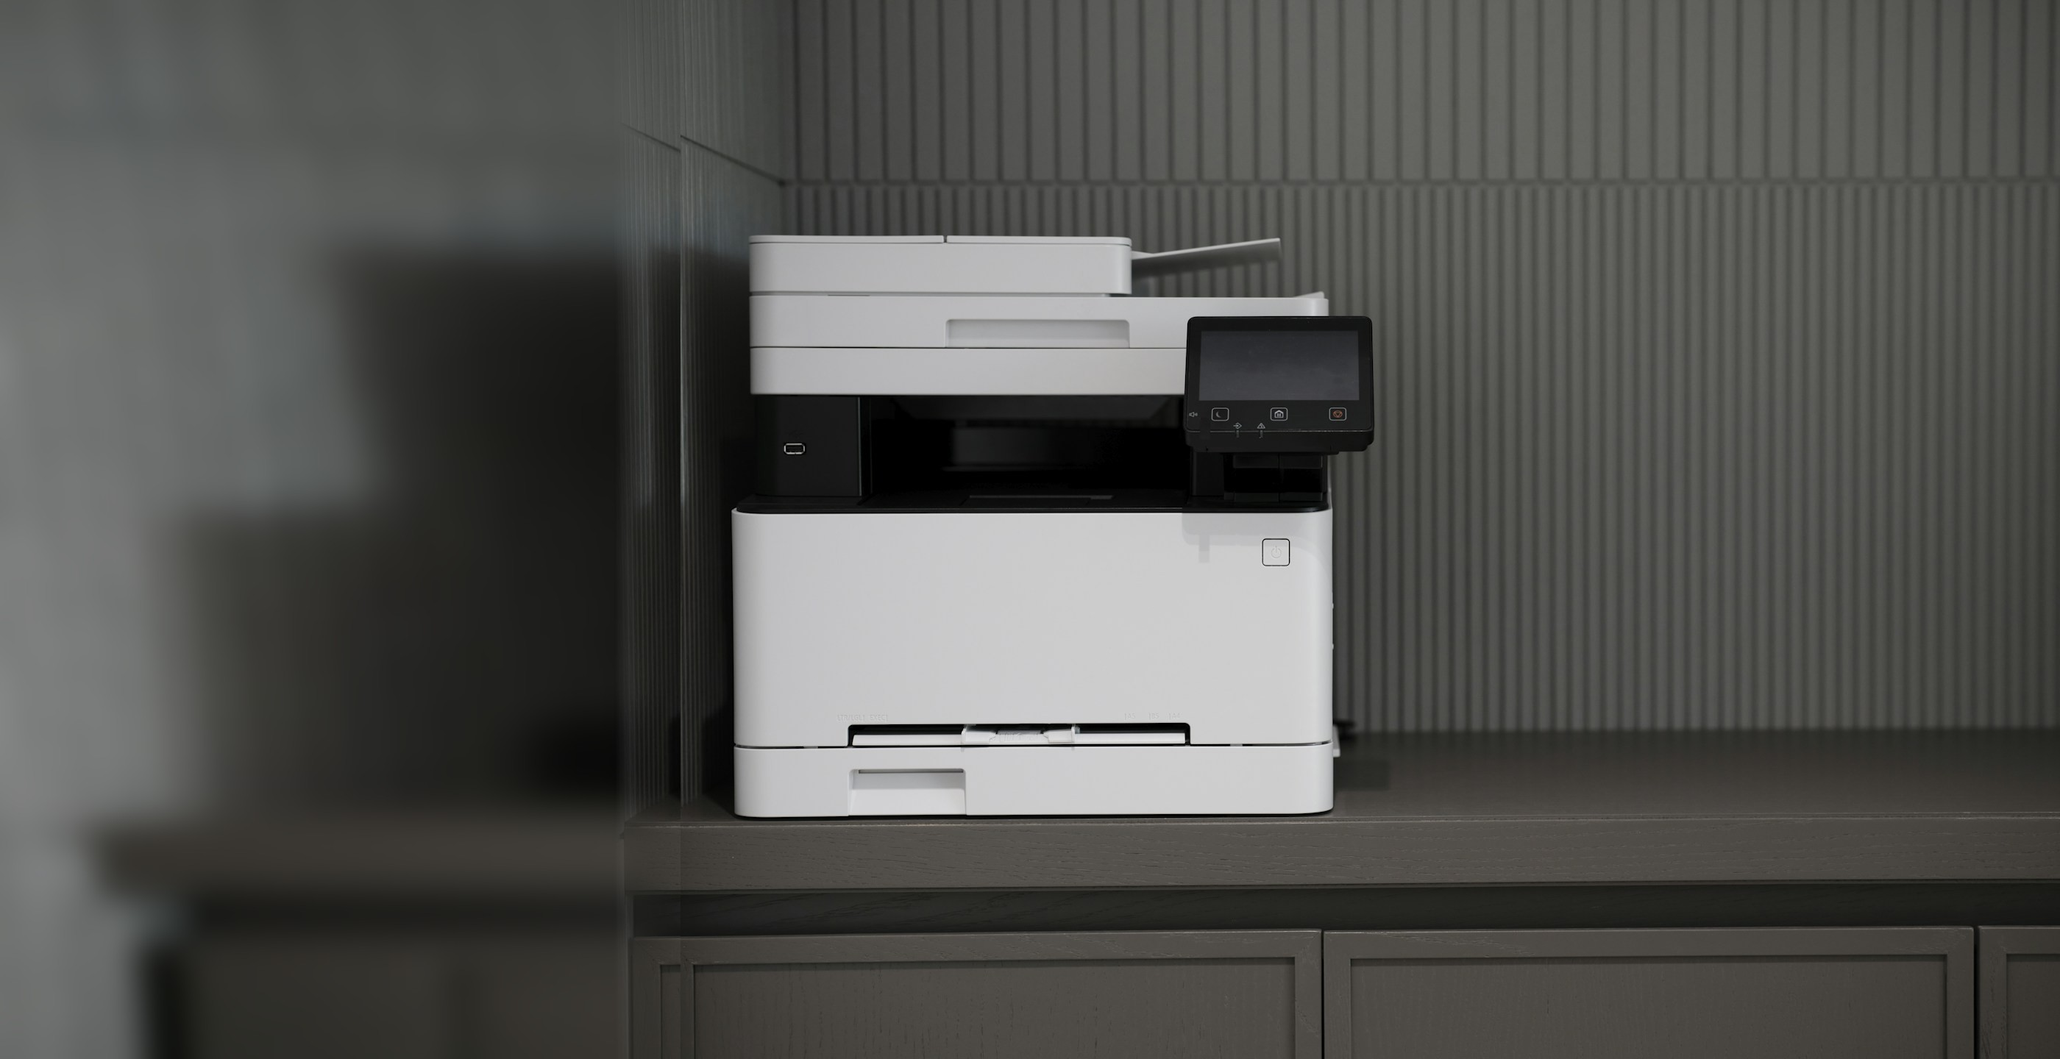
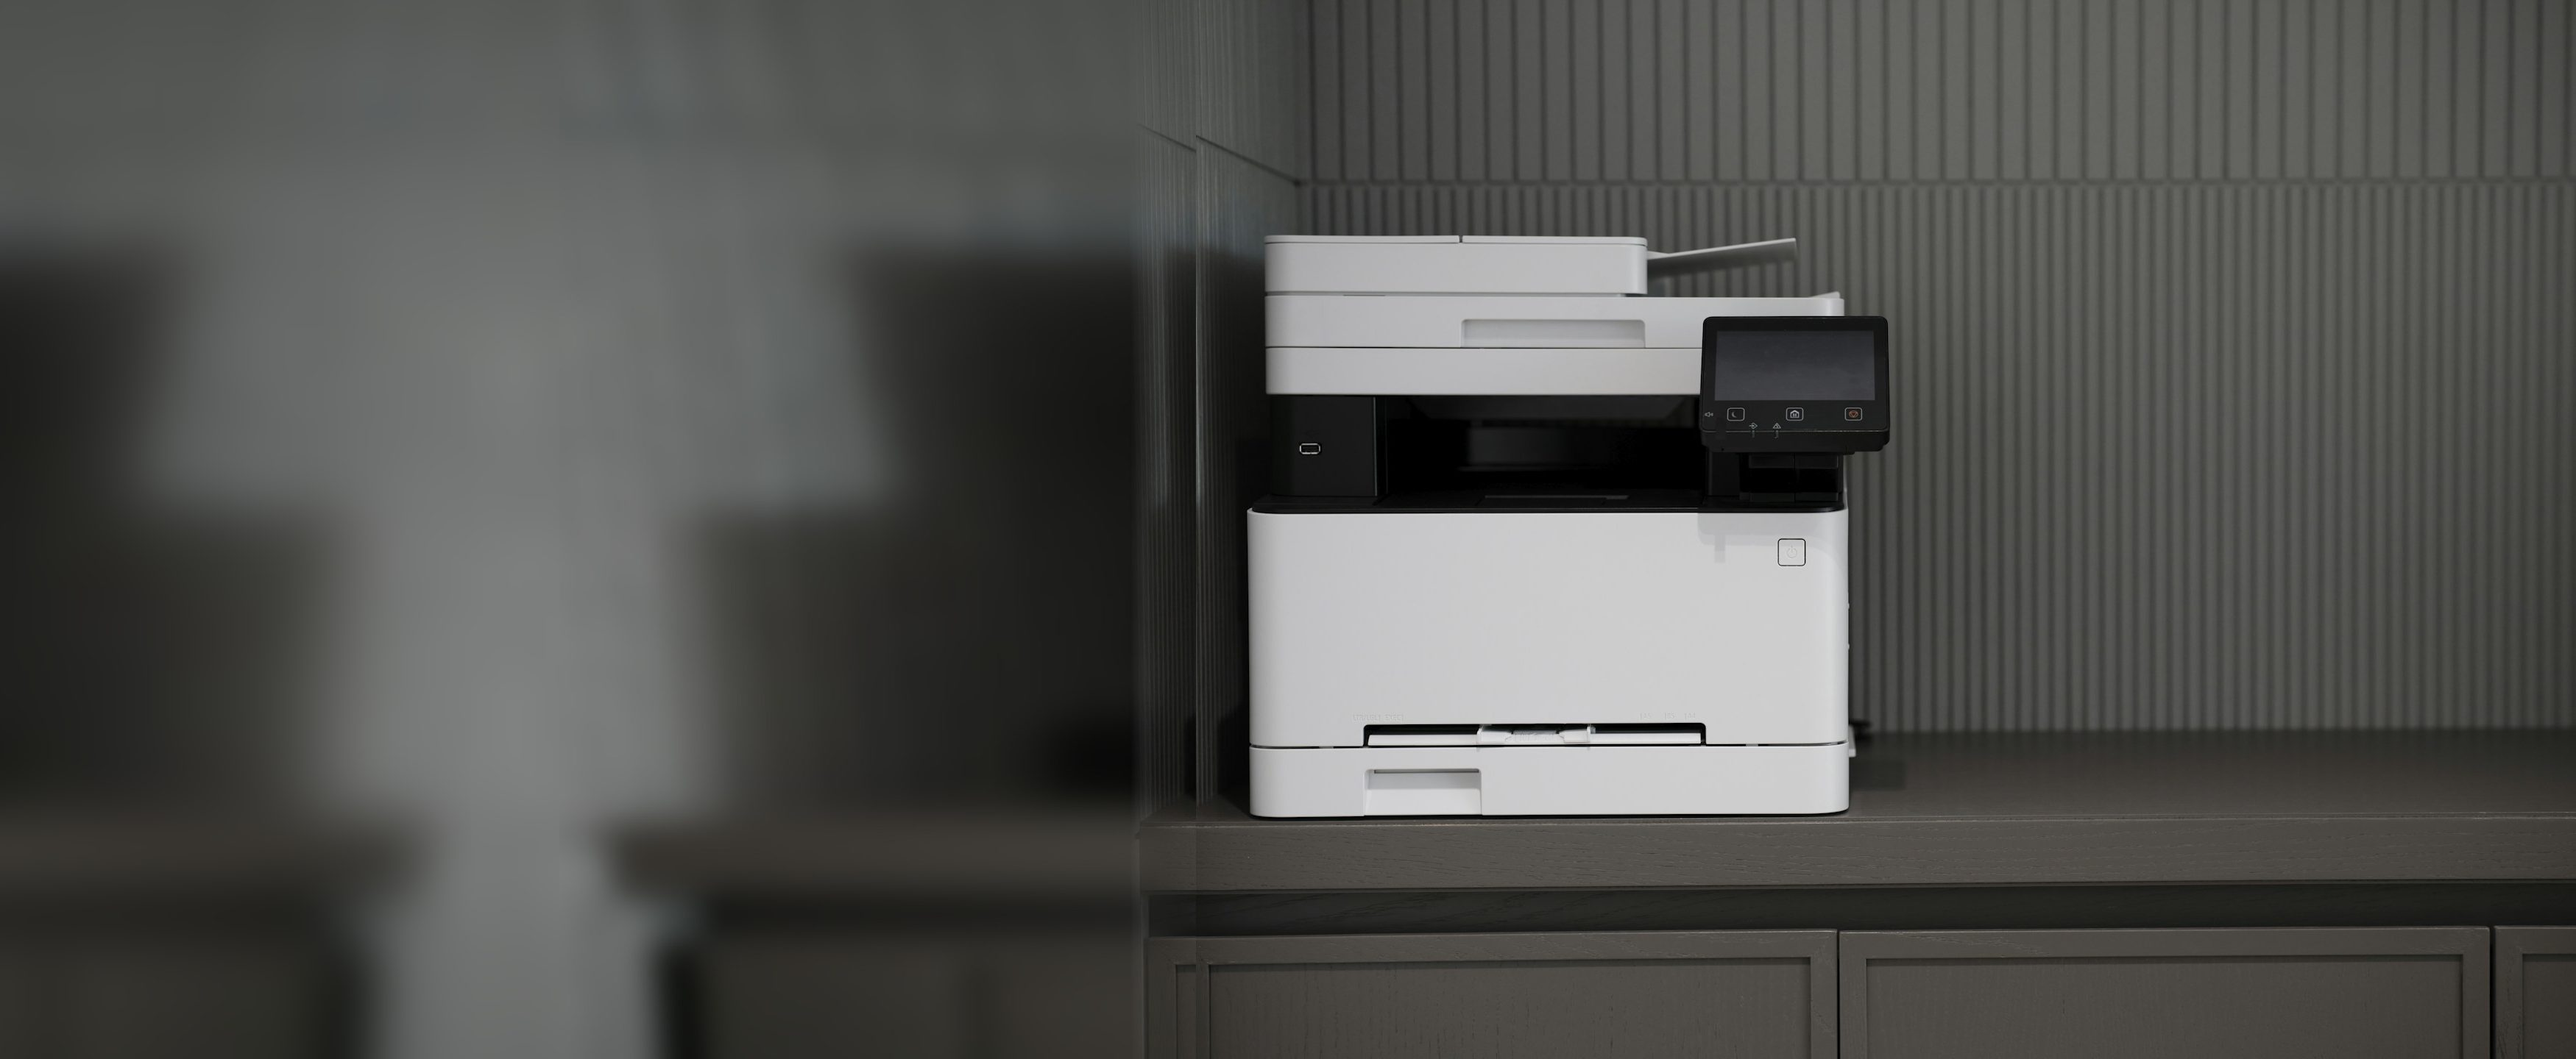
Sincroniza alterações locais

diff --git a/index.html b/index.html
@@ -215,11 +215,7 @@
       content: '';
       position: absolute;
       inset: 0;
-      display: none;
-      background:
-        radial-gradient(ellipse at 15% 55%, rgba(237, 125, 32, 0.2) 0%, transparent 55%),
-        radial-gradient(ellipse at 85% 15%, rgba(255, 255, 255, 0.48) 0%, transparent 50%),
-        linear-gradient(110deg, rgba(21, 12, 30, 0.82) 0%, rgba(21, 12, 30, 0.58) 30%, rgba(21, 12, 30, 0.24) 60%, rgba(21, 12, 30, 0.1) 100%);
+      background: linear-gradient(90deg, rgba(21, 12, 30, 0.72) 0%, rgba(21, 12, 30, 0.5) 32%, rgba(21, 12, 30, 0.08) 52%, transparent 70%);
     }
 
     .hero::after {
@@ -235,13 +231,39 @@
     .hero-content {
       max-width: 1200px;
       margin: 0 auto;
-      padding: 80px 24px;
+      padding: 56px 24px;
       position: relative;
       z-index: 1;
-      display: grid;
-      grid-template-columns: 1fr 1fr;
-      gap: 80px;
-      align-items: center;
+      width: 100%;
+    }
+
+    .hero-text { max-width: 600px; }
+
+    .hero-logo {
+      display: block;
+      width: 150px;
+      height: auto;
+      margin-bottom: 22px;
+    }
+
+    /* Brilho ambiente fixo atrás do texto do hero (substitui o glow que seguia o mouse) */
+    .hero-glow {
+      position: absolute;
+      left: -8%;
+      top: 50%;
+      width: 720px;
+      height: 720px;
+      transform: translateY(-50%);
+      border-radius: 50%;
+      background: radial-gradient(circle, rgba(237, 125, 32, 0.22) 0%, rgba(107, 47, 160, 0.14) 42%, transparent 70%);
+      pointer-events: none;
+      z-index: 0;
+      animation: glowPulse 9s ease-in-out infinite;
+    }
+
+    @keyframes glowPulse {
+      0%, 100% { opacity: 0.75; transform: translateY(-50%) scale(1); }
+      50% { opacity: 1; transform: translateY(-50%) scale(1.08); }
     }
 
     .overline {
@@ -274,7 +296,7 @@
       font-weight: 300;
       color: rgba(255,255,255,0.78);
       line-height: 1.75;
-      margin-bottom: 40px;
+      margin-bottom: 32px;
       max-width: 480px;
       text-shadow: 0 2px 16px rgba(0,0,0,0.3);
     }
@@ -328,30 +350,11 @@
       background: rgba(237, 125, 32, 0.12);
     }
 
-    .hero-visual {
-      display: flex;
-      justify-content: center;
-      align-items: center;
-    }
-
-    .hero-logo-wrap img {
-      width: 300px;
-      height: auto;
-      max-width: 100%;
-      filter: drop-shadow(0 0 70px rgba(237, 125, 32, 0.45));
-      animation: floatLogo 7s ease-in-out infinite;
-    }
-
-    @keyframes floatLogo {
-      0%, 100% { transform: translateY(0px); }
-      50% { transform: translateY(-16px); }
-    }
-
     .hero-stats {
       display: flex;
       gap: 40px;
-      margin-top: 48px;
-      padding-top: 40px;
+      margin-top: 36px;
+      padding-top: 30px;
       border-top: 1px solid rgba(237, 125, 32, 0.22);
     }
 
@@ -595,12 +598,17 @@
       border-top: 1px solid rgba(0,0,0,0.08);
     }
 
+    .values-row { text-align: center; }
     .values-header { margin-bottom: 28px; }
 
     .values-pills {
       display: flex;
       flex-wrap: wrap;
+      justify-content: center;
       gap: 12px;
+      max-width: 900px;
+      margin-left: auto;
+      margin-right: auto;
     }
 
     .value-pill {
@@ -624,10 +632,11 @@
     }
 
     .vision-quote {
-      margin-top: 40px;
+      margin: 40px auto 0;
+      max-width: 820px;
       padding: 28px 32px;
       background: linear-gradient(120deg, rgba(107, 47, 160, 0.06), rgba(237, 125, 32, 0.06));
-      border-left: 3px solid var(--purple);
+      border-top: 3px solid var(--purple);
       border-radius: 8px;
     }
 
@@ -675,7 +684,9 @@
 
     .services-header {
       margin-bottom: 56px;
+      text-align: center;
     }
+    .services-header .section-desc { margin: 0 auto; }
 
     .services-pillars {
       display: grid;
@@ -1007,10 +1018,12 @@
 
     .contact-grid {
       display: grid;
-      grid-template-columns: 1fr 1fr;
+      grid-template-columns: minmax(0, 1fr) minmax(0, 1fr);
       gap: 60px;
-      margin-top: 56px;
+      align-items: stretch;
     }
+
+    .contact-head .btn-primary { margin-top: 8px; }
 
     .contact-info {
       display: flex;
@@ -1094,7 +1107,7 @@
       border-radius: 16px;
       overflow: hidden;
       border: 1px solid rgba(237, 125, 32, 0.24);
-      height: 380px;
+      min-height: 460px;
     }
 
     .map-box iframe {
@@ -1238,8 +1251,9 @@
           radial-gradient(ellipse at 50% 20%, rgba(237, 125, 32, 0.18) 0%, transparent 55%),
           linear-gradient(rgba(21, 12, 30, 0.64), rgba(21, 12, 30, 0.64));
       }
-      .hero-visual { order: -1; }
-      .hero-logo-wrap img { width: 220px; }
+      .hero-logo { width: 170px; margin-left: auto; margin-right: auto; }
+      .hero-text { margin: 0 auto; }
+      .hero-glow { left: calc(50% - 360px); }
       .hero-text h2 { margin: 0 auto 32px; }
       .hero-buttons { justify-content: center; }
       .hero-stats { justify-content: center; flex-wrap: wrap; }
@@ -1266,8 +1280,7 @@
         text-align: center;
         padding: 56px 20px;
       }
-      .hero-visual { order: -1; }
-      .hero-logo-wrap img { width: 180px; }
+      .hero-logo { width: 150px; margin-left: auto; margin-right: auto; }
       .hero-text h2 { margin: 0 auto 32px; }
       .hero-buttons { justify-content: center; }
       .hero-stats {
@@ -1316,7 +1329,7 @@
 
       /* Contact */
       .contact-grid { grid-template-columns: 1fr; gap: 36px; }
-      .map-box { height: 280px; }
+      .map-box { height: 280px; min-height: 0; }
 
       /* Footer */
       .footer-grid { grid-template-columns: 1fr; gap: 28px; }
@@ -1329,7 +1342,7 @@
 
     /* --- 540px: mobile grande --- */
     @media (max-width: 540px) {
-      .hero-logo-wrap img { width: 160px; }
+      .hero-logo { width: 140px; margin-left: auto; margin-right: auto; }
       .hero-stats { gap: 18px; }
       .hero-stat .num { font-size: 28px; }
 
@@ -1385,7 +1398,7 @@
 
       .contact-item { gap: 12px; }
       .c-icon { width: 38px; height: 38px; min-width: 38px; }
-      .map-box { height: 240px; }
+      .map-box { height: 240px; min-height: 0; }
 
       footer { padding: 48px 16px 32px; }
       .footer-brand p { max-width: 100%; }
@@ -1395,7 +1408,7 @@
     @media (max-width: 375px) {
       .logo img { height: 40px; }
 
-      .hero-logo-wrap img { width: 130px; }
+      .hero-logo { width: 120px; margin-left: auto; margin-right: auto; }
       .hero-text h1 { font-size: 36px; }
       .hero-stat .num { font-size: 24px; }
       .hero-stat .lbl { font-size: 11px; }
@@ -1425,7 +1438,7 @@
     .hero-text h2         { animation: heroUp 0.8s ease 0.42s both; }
     .hero-buttons         { animation: heroUp 0.8s ease 0.58s both; }
     .hero-stats           { animation: heroUp 0.8s ease 0.72s both; }
-    .hero-visual          { animation: heroIn  1s   ease 0.3s  both; }
+    .hero-logo            { animation: heroIn  1s   ease 0.05s both; }
 
     @keyframes heroUp {
       from { opacity: 0; transform: translateY(28px); }
@@ -1499,24 +1512,6 @@
       transition: top 0.25s ease;
     }
     .skip-link:focus { top: 16px; }
-
-    /* ===== CURSOR GLOW ===== */
-    .cursor-glow {
-      position: fixed;
-      top: 0; left: 0;
-      width: 440px;
-      height: 440px;
-      border-radius: 50%;
-      background: radial-gradient(circle, rgba(237, 125, 32, 0.16) 0%, rgba(107, 47, 160, 0.10) 45%, transparent 72%);
-      filter: blur(6px);
-      mix-blend-mode: screen;
-      transform: translate(-50%, -50%);
-      pointer-events: none;
-      z-index: 3;
-      opacity: 0;
-      transition: opacity 0.5s ease;
-    }
-    .cursor-glow.active { opacity: 1; }
 
     /* ===== BUTTON SHIMMER ===== */
     .btn-primary, .nav-cta {
@@ -1598,7 +1593,7 @@
 
     /* ===== REDUCED MOTION ===== */
     @media (prefers-reduced-motion: reduce) {
-      .cursor-glow { display: none; }
+      .hero-glow { animation: none; }
       .hero-text h1 em { animation: none; }
       .service-card, .market-card { transition: none !important; }
     }
@@ -1607,9 +1602,6 @@
 <body>
 
   <a href="#home" class="skip-link">Pular para o conteúdo</a>
-
-  <!-- CURSOR GLOW -->
-  <div class="cursor-glow" aria-hidden="true"></div>
 
   <!-- HEADER -->
   <header>
@@ -1643,8 +1635,10 @@
 
   <!-- HERO -->
   <section class="hero" id="home" aria-label="Início">
+    <div class="hero-glow" aria-hidden="true"></div>
     <div class="hero-content">
       <div class="hero-text">
+        <img class="hero-logo" src="logo.png" alt="Brooow Tecnologia & Outsourcing" width="150">
         <span class="overline">São Bernardo do Campo · SP · Mais de 20 anos de mercado</span>
         <h1>Brooow<br><em>Tecnologia & Outsourcing</em></h1>
         <h2>Tecnologia que imprime confiança. Cuidamos das impressoras, você cuida do seu negócio.</h2>
@@ -1669,11 +1663,6 @@
             <div class="num">SBC</div>
             <div class="lbl">São Bernardo do Campo</div>
           </div>
-        </div>
-      </div>
-      <div class="hero-visual">
-        <div class="hero-logo-wrap">
-          <img src="logo.png" alt="Brooow Tecnologia & Outsourcing" width="300">
         </div>
       </div>
     </div>
@@ -1866,15 +1855,17 @@
   <!-- CONTACT -->
   <section class="contact" id="contato">
     <div class="container">
-      <span class="section-label" data-reveal>Fale conosco</span>
-      <h2 class="section-title" data-reveal>Entre em contato</h2>
-      <p class="section-desc" style="max-width: 500px;" data-reveal data-delay="1">Estamos prontos para simplificar o dia a dia da sua empresa. Entre em contato pelo WhatsApp, e-mail ou visite nossa unidade em São Bernardo do Campo.</p>
-      <a href="https://wa.me/5511994460412?text=Olá! Gostaria de solicitar um orçamento." class="btn-primary" style="display:inline-flex;align-items:center;gap:10px;margin-bottom:48px;" target="_blank" rel="noopener" data-reveal data-delay="2" aria-label="Solicitar orçamento pelo WhatsApp">
-        <svg viewBox="0 0 24 24" fill="currentColor" width="18" height="18" aria-hidden="true"><path d="M17.472 14.382c-.297-.149-1.758-.867-2.03-.967-.273-.099-.471-.148-.67.15-.197.297-.767.966-.94 1.164-.173.199-.347.223-.644.075-.297-.15-1.255-.463-2.39-1.475-.883-.788-1.48-1.761-1.653-2.059-.173-.297-.018-.458.13-.606.134-.133.298-.347.446-.52.149-.174.198-.298.298-.497.099-.198.05-.371-.025-.52-.075-.149-.669-1.612-.916-2.207-.242-.579-.487-.5-.669-.51-.173-.008-.371-.01-.57-.01-.198 0-.52.074-.792.372-.272.297-1.04 1.016-1.04 2.479 0 1.462 1.065 2.875 1.213 3.074.149.198 2.096 3.2 5.077 4.487.709.306 1.262.489 1.694.625.712.227 1.36.195 1.871.118.571-.085 1.758-.719 2.006-1.413.248-.694.248-1.289.173-1.413-.074-.124-.272-.198-.57-.347m-5.421 7.403h-.004a9.87 9.87 0 01-5.031-1.378l-.361-.214-3.741.982.998-3.648-.235-.374a9.86 9.86 0 01-1.51-5.26c.001-5.45 4.436-9.884 9.888-9.884 2.64 0 5.122 1.03 6.988 2.898a9.825 9.825 0 012.893 6.994c-.003 5.45-4.437 9.884-9.885 9.884m8.413-18.297A11.815 11.815 0 0012.05 0C5.495 0 .16 5.335.157 11.892c0 2.096.547 4.142 1.588 5.945L.057 24l6.305-1.654a11.882 11.882 0 005.683 1.448h.005c6.554 0 11.89-5.335 11.893-11.893a11.821 11.821 0 00-3.48-8.413z"/></svg>
-        Solicitar orçamento
-      </a>
       <div class="contact-grid">
         <div class="contact-info">
+          <div class="contact-head">
+            <span class="section-label" data-reveal>Fale conosco</span>
+            <h2 class="section-title" data-reveal>Entre em contato</h2>
+            <p class="section-desc" style="max-width: 500px;" data-reveal data-delay="1">Estamos prontos para simplificar o dia a dia da sua empresa. Entre em contato pelo WhatsApp, e-mail ou visite nossa unidade em São Bernardo do Campo.</p>
+            <a href="https://wa.me/5511994460412?text=Olá! Gostaria de solicitar um orçamento." class="btn-primary" style="display:inline-flex;align-items:center;gap:10px;margin-bottom:12px;" target="_blank" rel="noopener" data-reveal data-delay="2" aria-label="Solicitar orçamento pelo WhatsApp">
+              <svg viewBox="0 0 24 24" fill="currentColor" width="18" height="18" aria-hidden="true"><path d="M17.472 14.382c-.297-.149-1.758-.867-2.03-.967-.273-.099-.471-.148-.67.15-.197.297-.767.966-.94 1.164-.173.199-.347.223-.644.075-.297-.15-1.255-.463-2.39-1.475-.883-.788-1.48-1.761-1.653-2.059-.173-.297-.018-.458.13-.606.134-.133.298-.347.446-.52.149-.174.198-.298.298-.497.099-.198.05-.371-.025-.52-.075-.149-.669-1.612-.916-2.207-.242-.579-.487-.5-.669-.51-.173-.008-.371-.01-.57-.01-.198 0-.52.074-.792.372-.272.297-1.04 1.016-1.04 2.479 0 1.462 1.065 2.875 1.213 3.074.149.198 2.096 3.2 5.077 4.487.709.306 1.262.489 1.694.625.712.227 1.36.195 1.871.118.571-.085 1.758-.719 2.006-1.413.248-.694.248-1.289.173-1.413-.074-.124-.272-.198-.57-.347m-5.421 7.403h-.004a9.87 9.87 0 01-5.031-1.378l-.361-.214-3.741.982.998-3.648-.235-.374a9.86 9.86 0 01-1.51-5.26c.001-5.45 4.436-9.884 9.888-9.884 2.64 0 5.122 1.03 6.988 2.898a9.825 9.825 0 012.893 6.994c-.003 5.45-4.437 9.884-9.885 9.884m8.413-18.297A11.815 11.815 0 0012.05 0C5.495 0 .16 5.335.157 11.892c0 2.096.547 4.142 1.588 5.945L.057 24l6.305-1.654a11.882 11.882 0 005.683 1.448h.005c6.554 0 11.89-5.335 11.893-11.893a11.821 11.821 0 00-3.48-8.413z"/></svg>
+              Solicitar orçamento
+            </a>
+          </div>
           <div class="contact-item" data-reveal="left" data-delay="1">
             <div class="c-icon" aria-hidden="true">
               <svg viewBox="0 0 24 24" fill="none" stroke="currentColor" stroke-width="2" stroke-linecap="round" stroke-linejoin="round"><path d="M21 10c0 7-9 13-9 13s-9-6-9-13a9 9 0 0 1 18 0z"/><circle cx="12" cy="10" r="3"/></svg>
@@ -2047,20 +2038,6 @@
     const prefersReducedMotion = window.matchMedia('(prefers-reduced-motion: reduce)').matches;
 
     if (hasFinePointer && !prefersReducedMotion) {
-      /* ---- Glow que acompanha o cursor ---- */
-      const glow = document.querySelector('.cursor-glow');
-      let glowRaf = null;
-      window.addEventListener('mousemove', (e) => {
-        glow.classList.add('active');
-        if (glowRaf) return;
-        glowRaf = requestAnimationFrame(() => {
-          glow.style.left = e.clientX + 'px';
-          glow.style.top = e.clientY + 'px';
-          glowRaf = null;
-        });
-      }, { passive: true });
-      document.addEventListener('mouseleave', () => glow.classList.remove('active'));
-
       /* ---- Tilt 3D suave nos cards ---- */
       document.querySelectorAll('.service-card, .market-card').forEach(card => {
         card.addEventListener('mousemove', (e) => {
